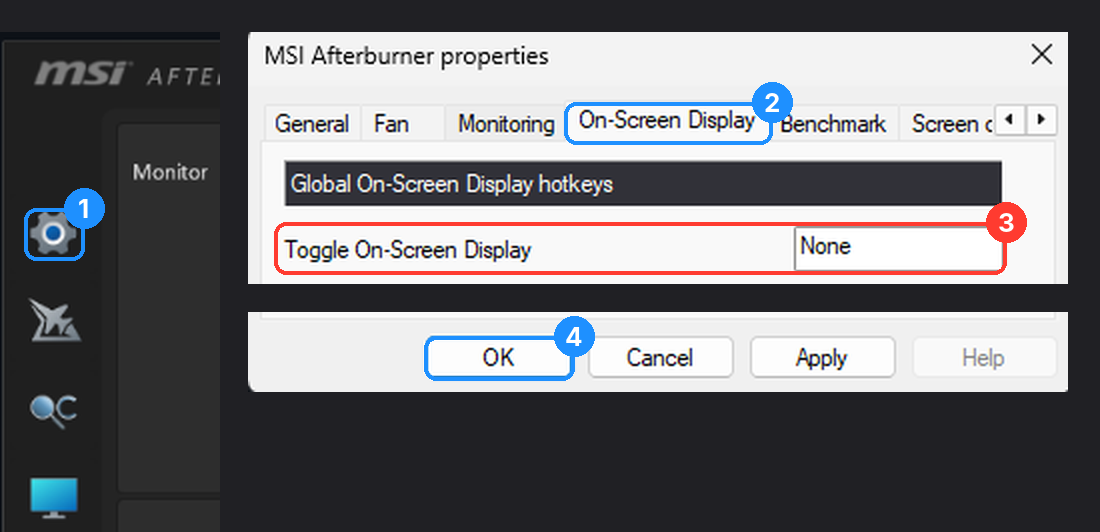
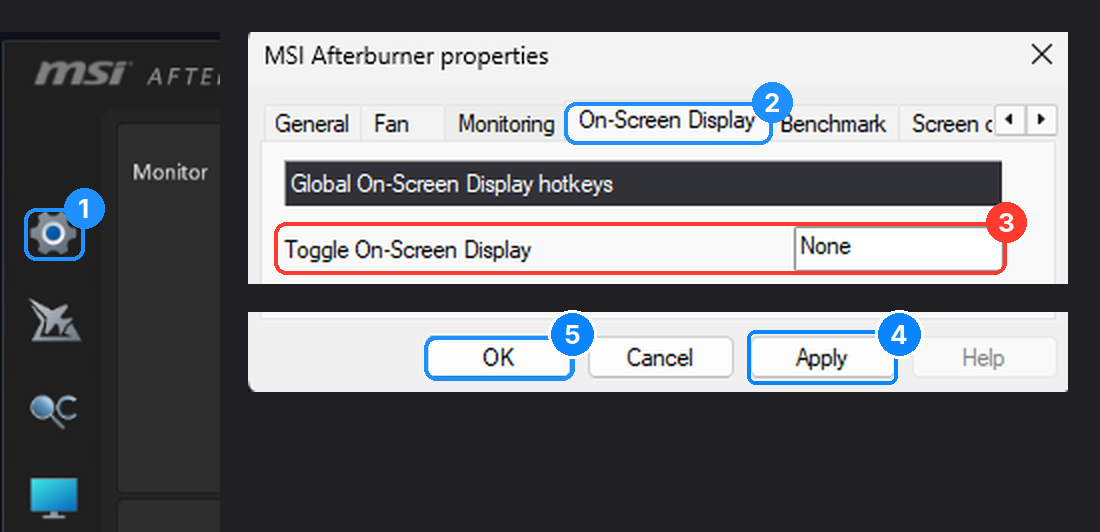
read

Changed region(s): [[0.68, 0.5714, 0.8345, 0.7218], [0.4945, 0.5714, 0.5564, 0.6617]]

diff --git a/README.md b/README.md
@@ -344,14 +344,31 @@ Want the lightest setup? Use **🟢 Essential**: no HWiNFO at all.
 <details>
 <summary><h3>⌨ Show / hide the overlay with a hotkey</h3></summary>
 
+Pick **one** of the two ways. Both do the same thing.
+
+**Option A: in RTSS** (works without Afterburner)
+
+| # | What to do |
+|---|---|
+| 1 | Open **RTSS** and click **Setup**, then open the **Plugins** tab |
+| 2 | Click the name **HotkeyHandler.dll** so it's highlighted (keep it ticked) |
+| 3 | Click **Setup** under the list |
+| 4 | Click the box next to **Toggle On-Screen Display** and press the key you want (e.g. **F10**) |
+| 5 | Click **OK**, then **OK** again in RTSS Setup |
+
+<img src="previews/setup/rtss_hotkey_plugin.png" width="320" alt="RTSS Plugins tab: 2 HotkeyHandler.dll, 3 Setup"> <img src="previews/setup/rtss_hotkey.png" width="320" alt="Hotkey handler: 4 Toggle On-Screen Display, 5 OK">
+
+**Option B: in MSI Afterburner**
+
 | # | What to do |
 |---|---|
 | 1 | Open **MSI Afterburner** → **Settings** (gear) |
 | 2 | Open the **On-Screen Display** tab |
 | 3 | Click the box next to **Toggle On-Screen Display** and press the key you want (e.g. **F10**) |
-| 4 | Click **OK** |
+| 4 | Click **Apply** |
+| 5 | Click **OK** |
 
-<img src="previews/setup/ab_hotkey.png" width="560" alt="Afterburner: Settings gear, On-Screen Display tab, Toggle On-Screen Display, OK">
+<img src="previews/setup/ab_hotkey.png" width="560" alt="Afterburner: 1 Settings gear, 2 On-Screen Display tab, 3 Toggle On-Screen Display, 4 Apply, 5 OK">
 
 Now press that key in game to show or hide the overlay. Handy for screenshots and recordings.
 
